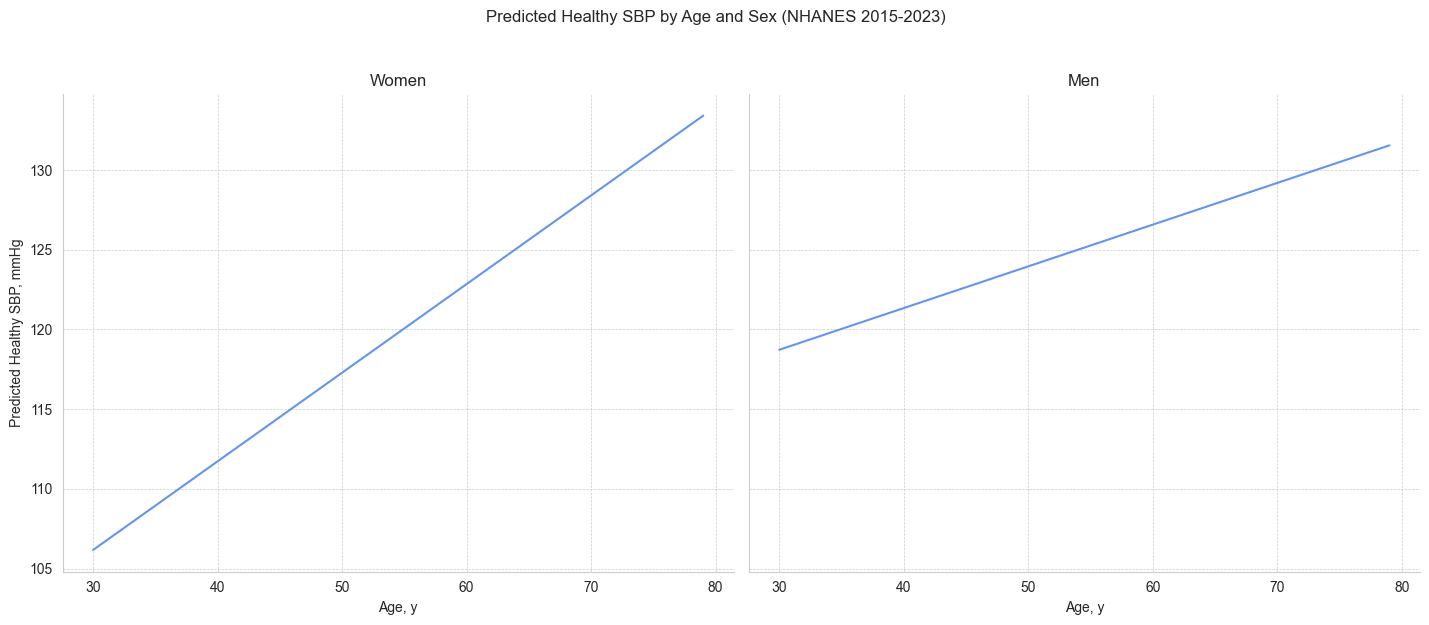
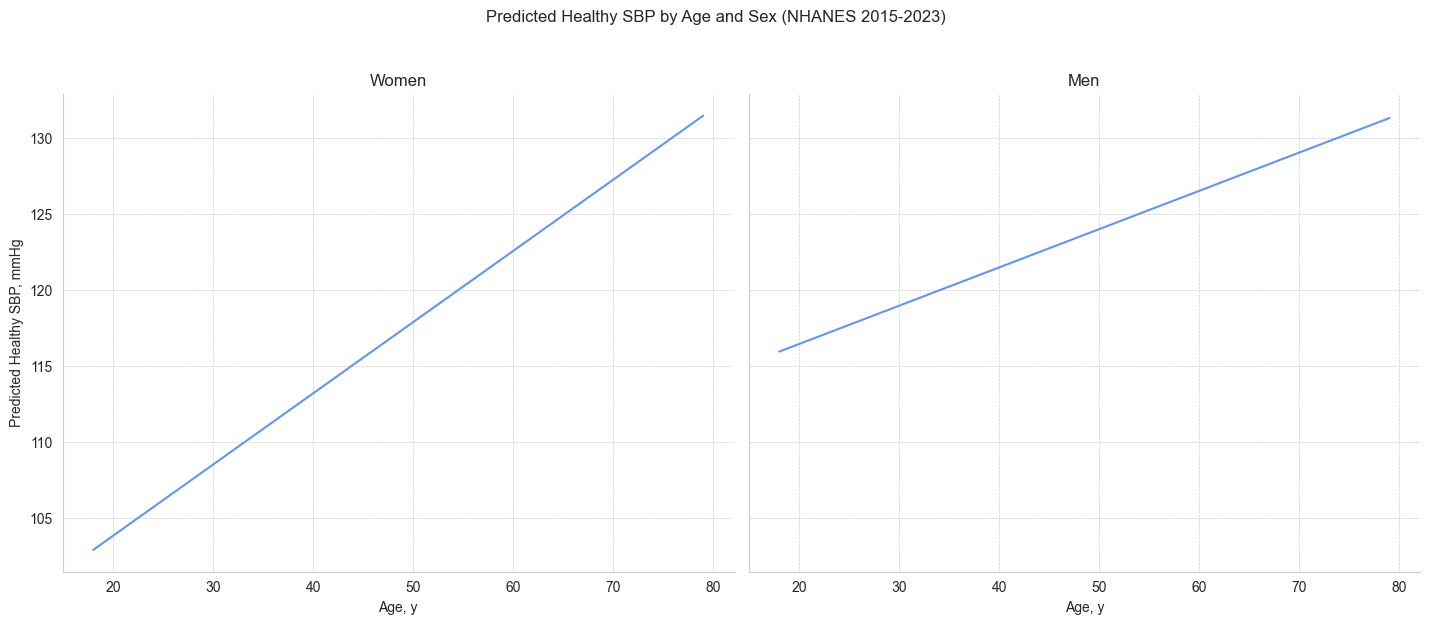
use min age 18

diff --git a/healthy_comparator_analysis.py b/healthy_comparator_analysis.py
@@ -38,7 +38,7 @@ def get_datasets(suffix: str, config: dict):
 
 def preprocess_data(df: pd.DataFrame):
     """Preprocesses and cleans the merged NHANES data."""
-    df = filter_age(df)
+    df = filter_age(df, min_age=18, max_age=79)
     df = map_sex(df)
     df = calculate_sbp(df)
     df = process_anti_htn_meds(df, fill_na_value=2)
@@ -133,7 +133,7 @@ def get_comparator_models_and_prevalences(healthy_df: pd.DataFrame):
 
 def generate_comparator_table(sbp_model: LinearRegression, chol_model: LinearRegression, prevalences: dict):
     """Generates a table of healthy comparator values for ages 30-79."""
-    ages = np.arange(30, 79)
+    ages = np.arange(18, 80)
     sexes = ['male', 'female']
     
     results = []
